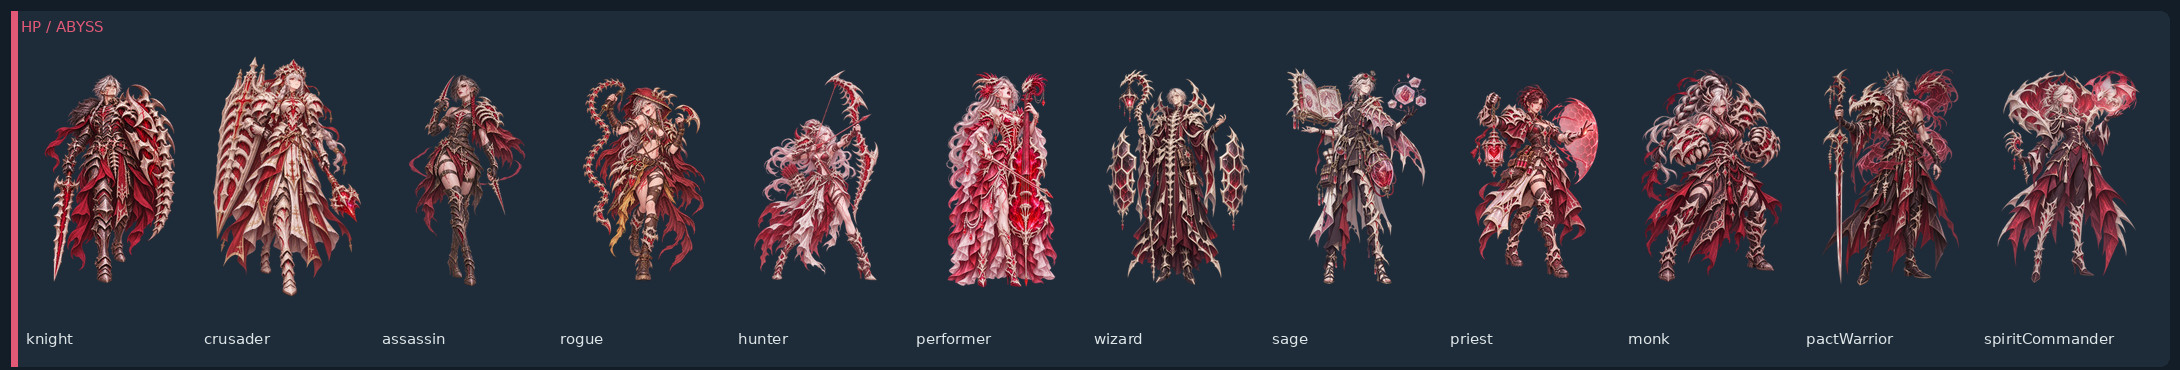
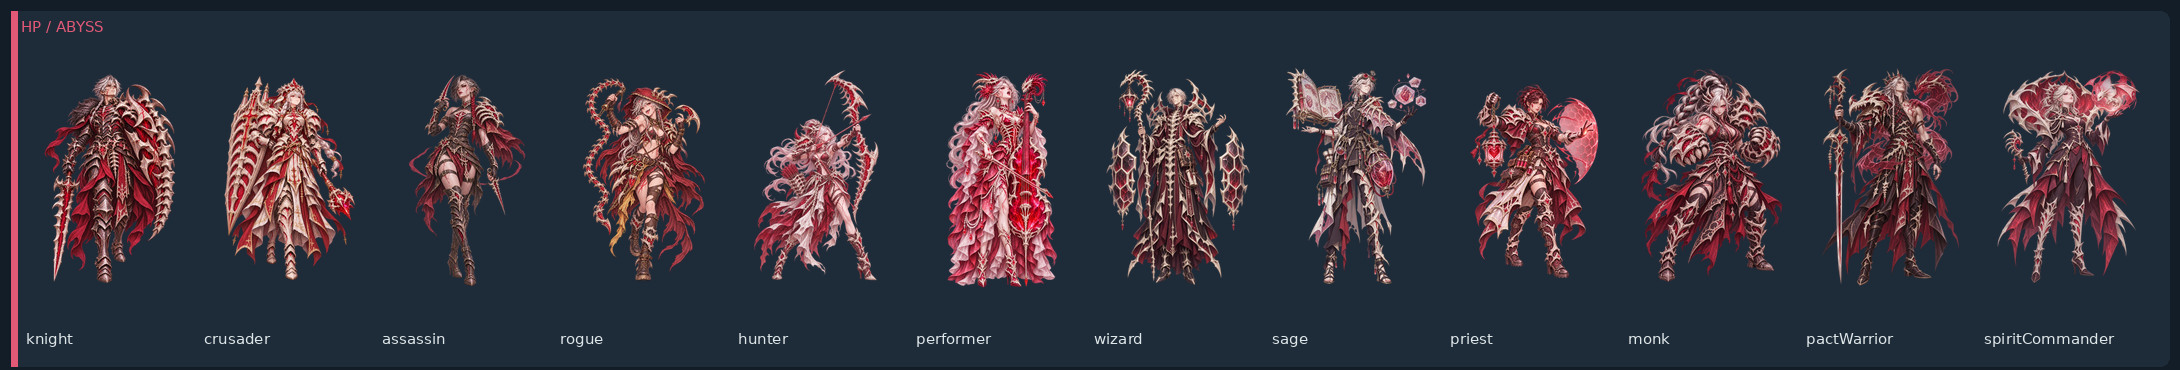
docs: refresh all extreme mantle V2 sheets and audit alpha margins

Changed region(s): [[0.0936, 0.1784, 0.1872, 0.8027]]

diff --git a/docs/HANDOFF_EXTREME_MANTLES_V2_2026-11-08.md b/docs/HANDOFF_EXTREME_MANTLES_V2_2026-11-08.md
@@ -604,3 +604,11 @@
 - 保留栗髮綠瞳女性翡翠先鋒、白金輕式重甲、單手直劍、圓盾與小型軍旗光環，避免與男性巨盾聖戰十字軍雷同。原版橫向劍斬與大圓陣高度僅79.2%，重整為狹窄直立前踏姿勢、長劍沿左腿向下、圓盾靠右肩、軍旗成垂直小弧。
 - `dist/assets/extreme/mantles-v2/clear-knight.webp` 1024×1536 RGBA 透明 WebP，alpha≥128 bbox=(161,126,839,1402)，留白161／126／184／133px，四側超過6%，人物高度約83.1%，長劍、盾與雙腳完整。
 - 低佔比十圖 C1–C10 全部重新審核並完成縱向構圖返工，舊版完整保留 Git 歷史；下一步刷新五張總覽、全套 48 張素材稽核及剩餘底部安全留白細項。
+
+## 全部 48 張復核與總覽收尾（2026-11-09）
+
+- 以實際 WebP alpha≥128 像素邊界全面測量：48／48 檔案存在、1024×1536、RGBA 透明、SHA-256 均不相同。第一批六張邊界返工、另兩張貼邊返工及十張直式人物返工均已各自提交遠端；五張總覽依最新檔案重新生成，其中 ATK 短圖內容未變。
+- 約 6% 是**目標值**而非硬性捨棄 1–14px 尾端細節的裁切門檻。仍低於精確 6% 的素材共 9 張，alpha 邊界四側留白依序為左／上／右／下（px）：`atk-crusader` 72/88/65/91；`atk-sage` 79/83/81/87；`clear-assassin` 60/205/67/157；`clear-monk` 190/114/169/90；`hp-assassin` 156/127/143/88；`hp-pactWarrior` 89/88/82/90；`hp-performer` 177/113/157/79；`hp-sage` 76/90/75/100；`matk-assassin` 179/102/157/91。尤其 HP 舞孃底邊79px（約5.1%），其餘偏差均很小。
+- HP 舞孃嘗試兩版圖像生成重新置中，但新生成仍有底邊79px，且細節重繪風險高，因此**未覆蓋已確認原圖**；HP 刺客僅差底邊4px，也保留原版。往後若必須嚴格所有側≥6%，請逐張優先無損移位或縮放／透明畫布重新安排，禁止裁切配件或為邊界大幅重繪已定稿形象。
+- MATK 八圖及 CLEAR 修羅／騎士十張原低佔比素材已完成直式改造；仍需以更新後總覽進行主觀美術檢視（職業武器、五官、角色相似度），不能僅憑 alpha 數字宣稱美術驗收完成。
+- 本次只更新 `feature/endless-trials-three-bosses` 測試分支。`main`、GitHub Pages 正式網站與部署流程均未觸碰。
